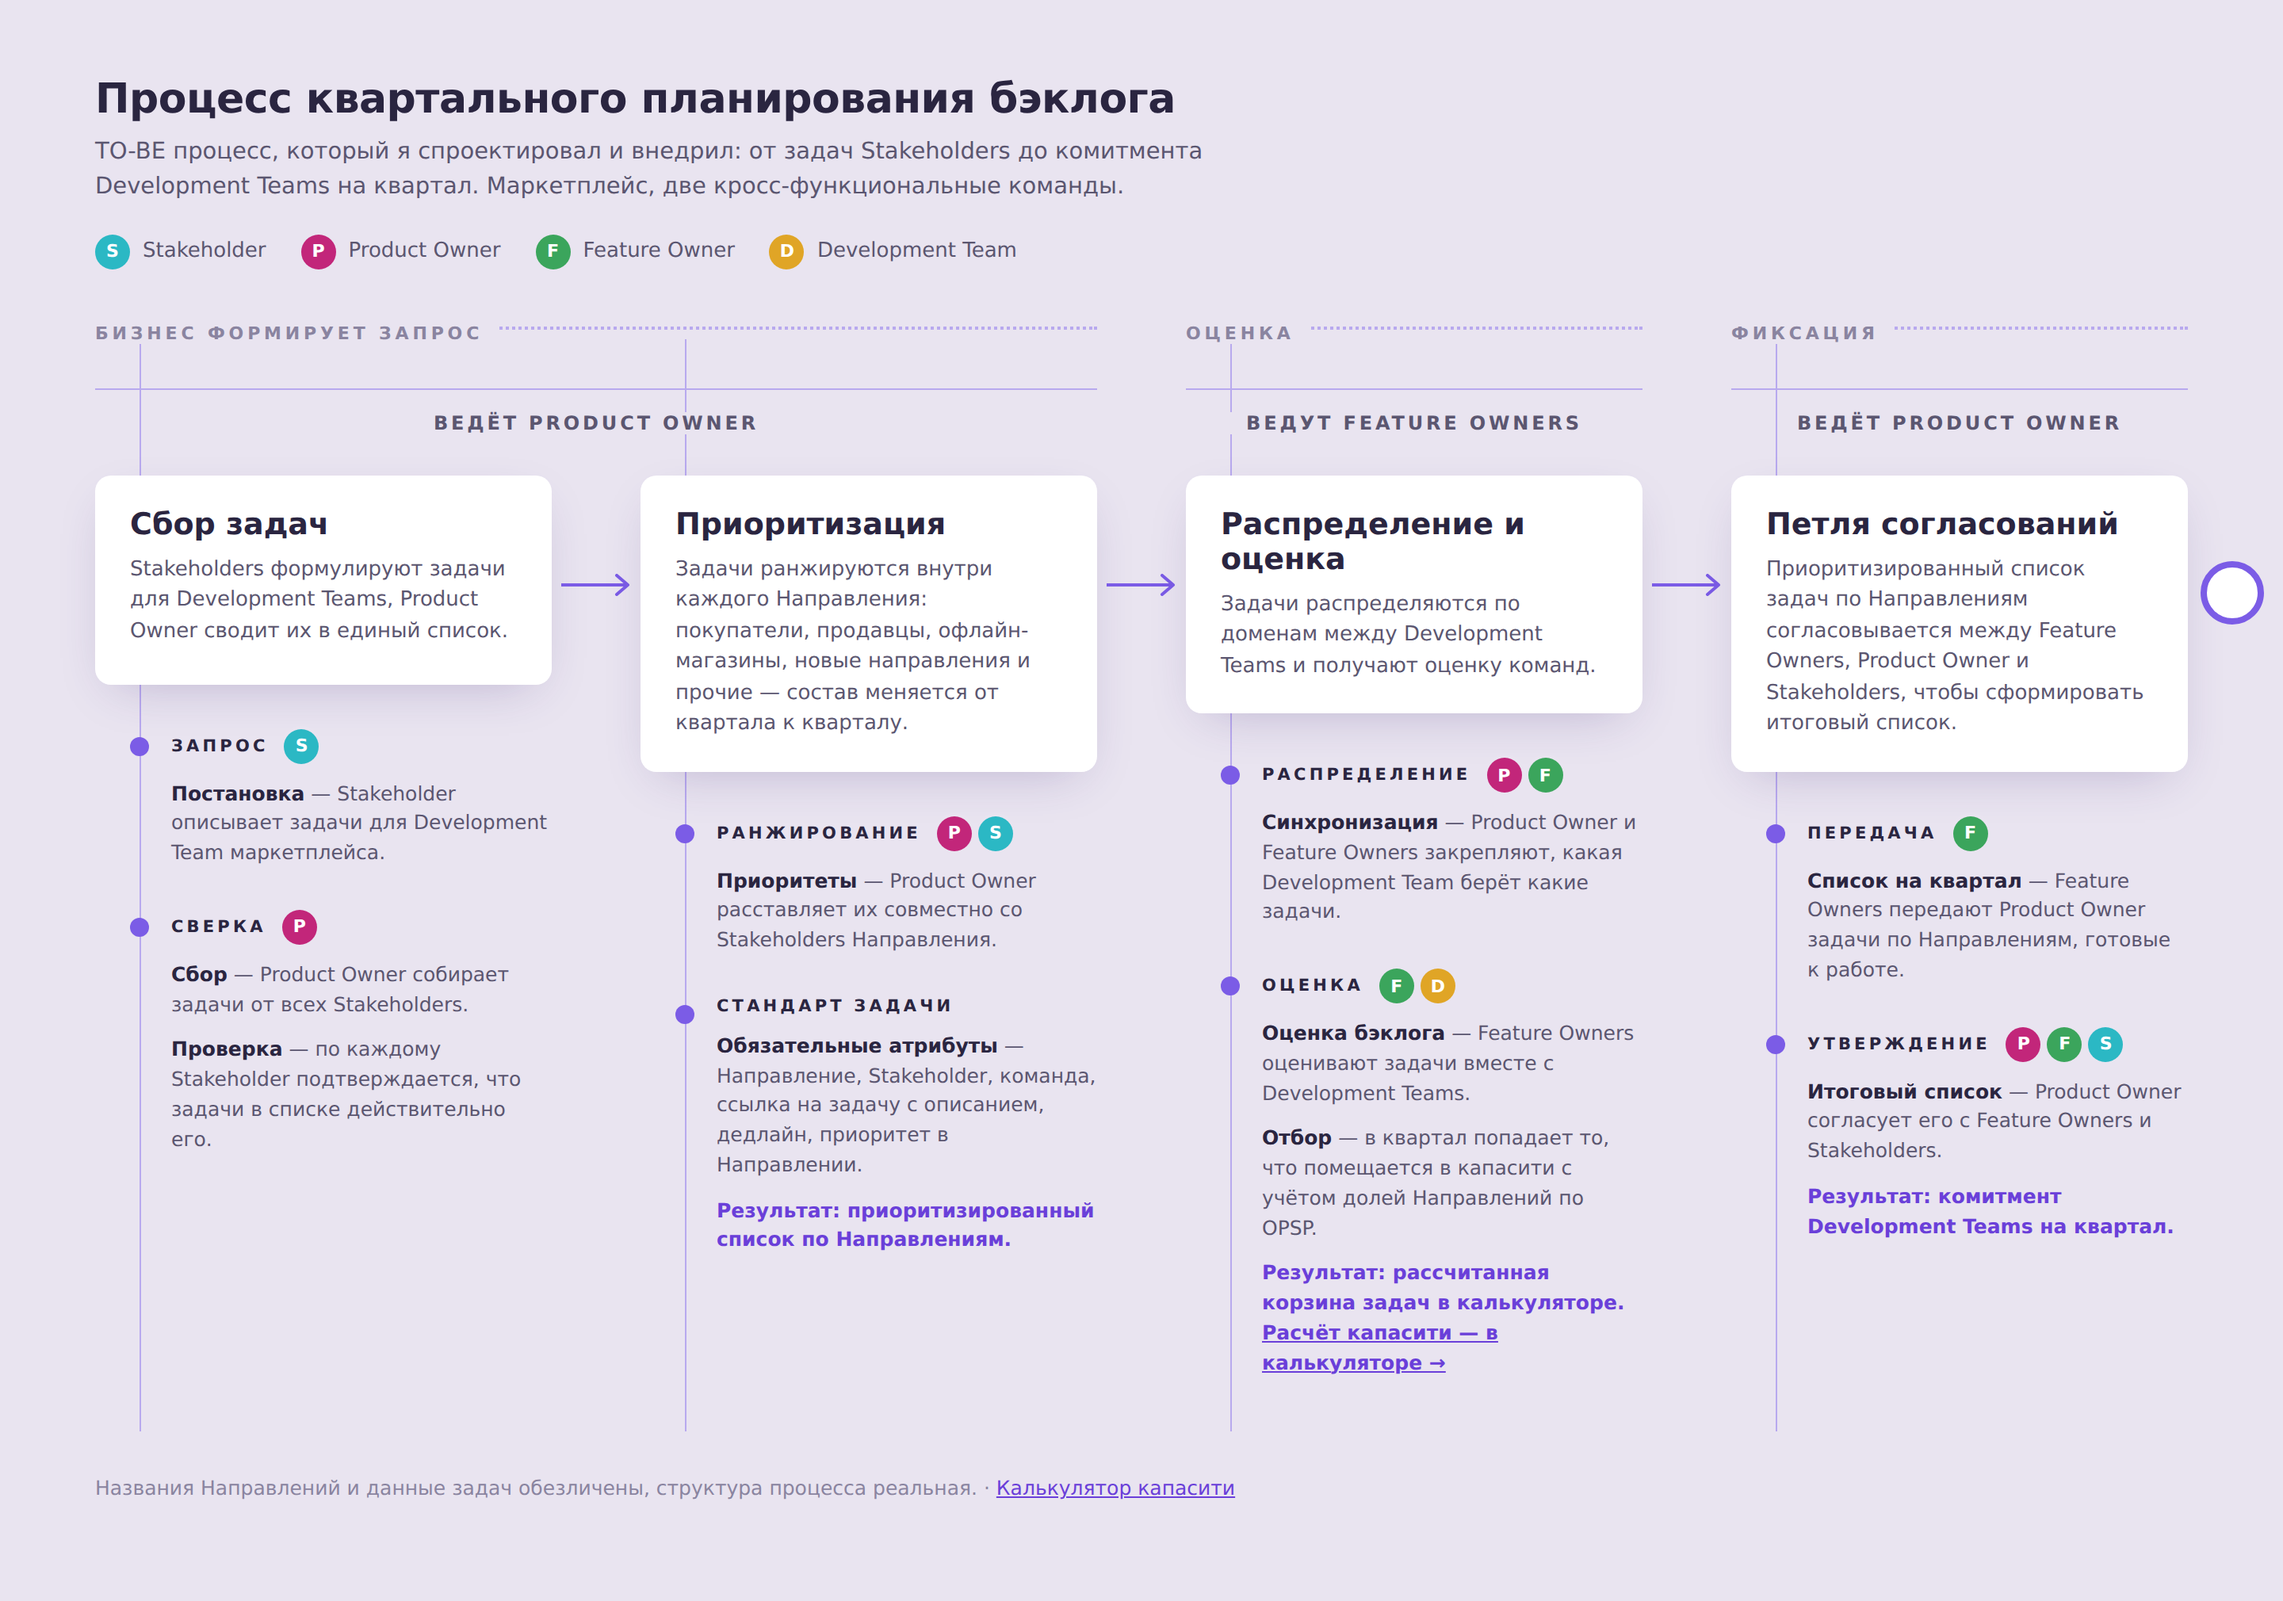
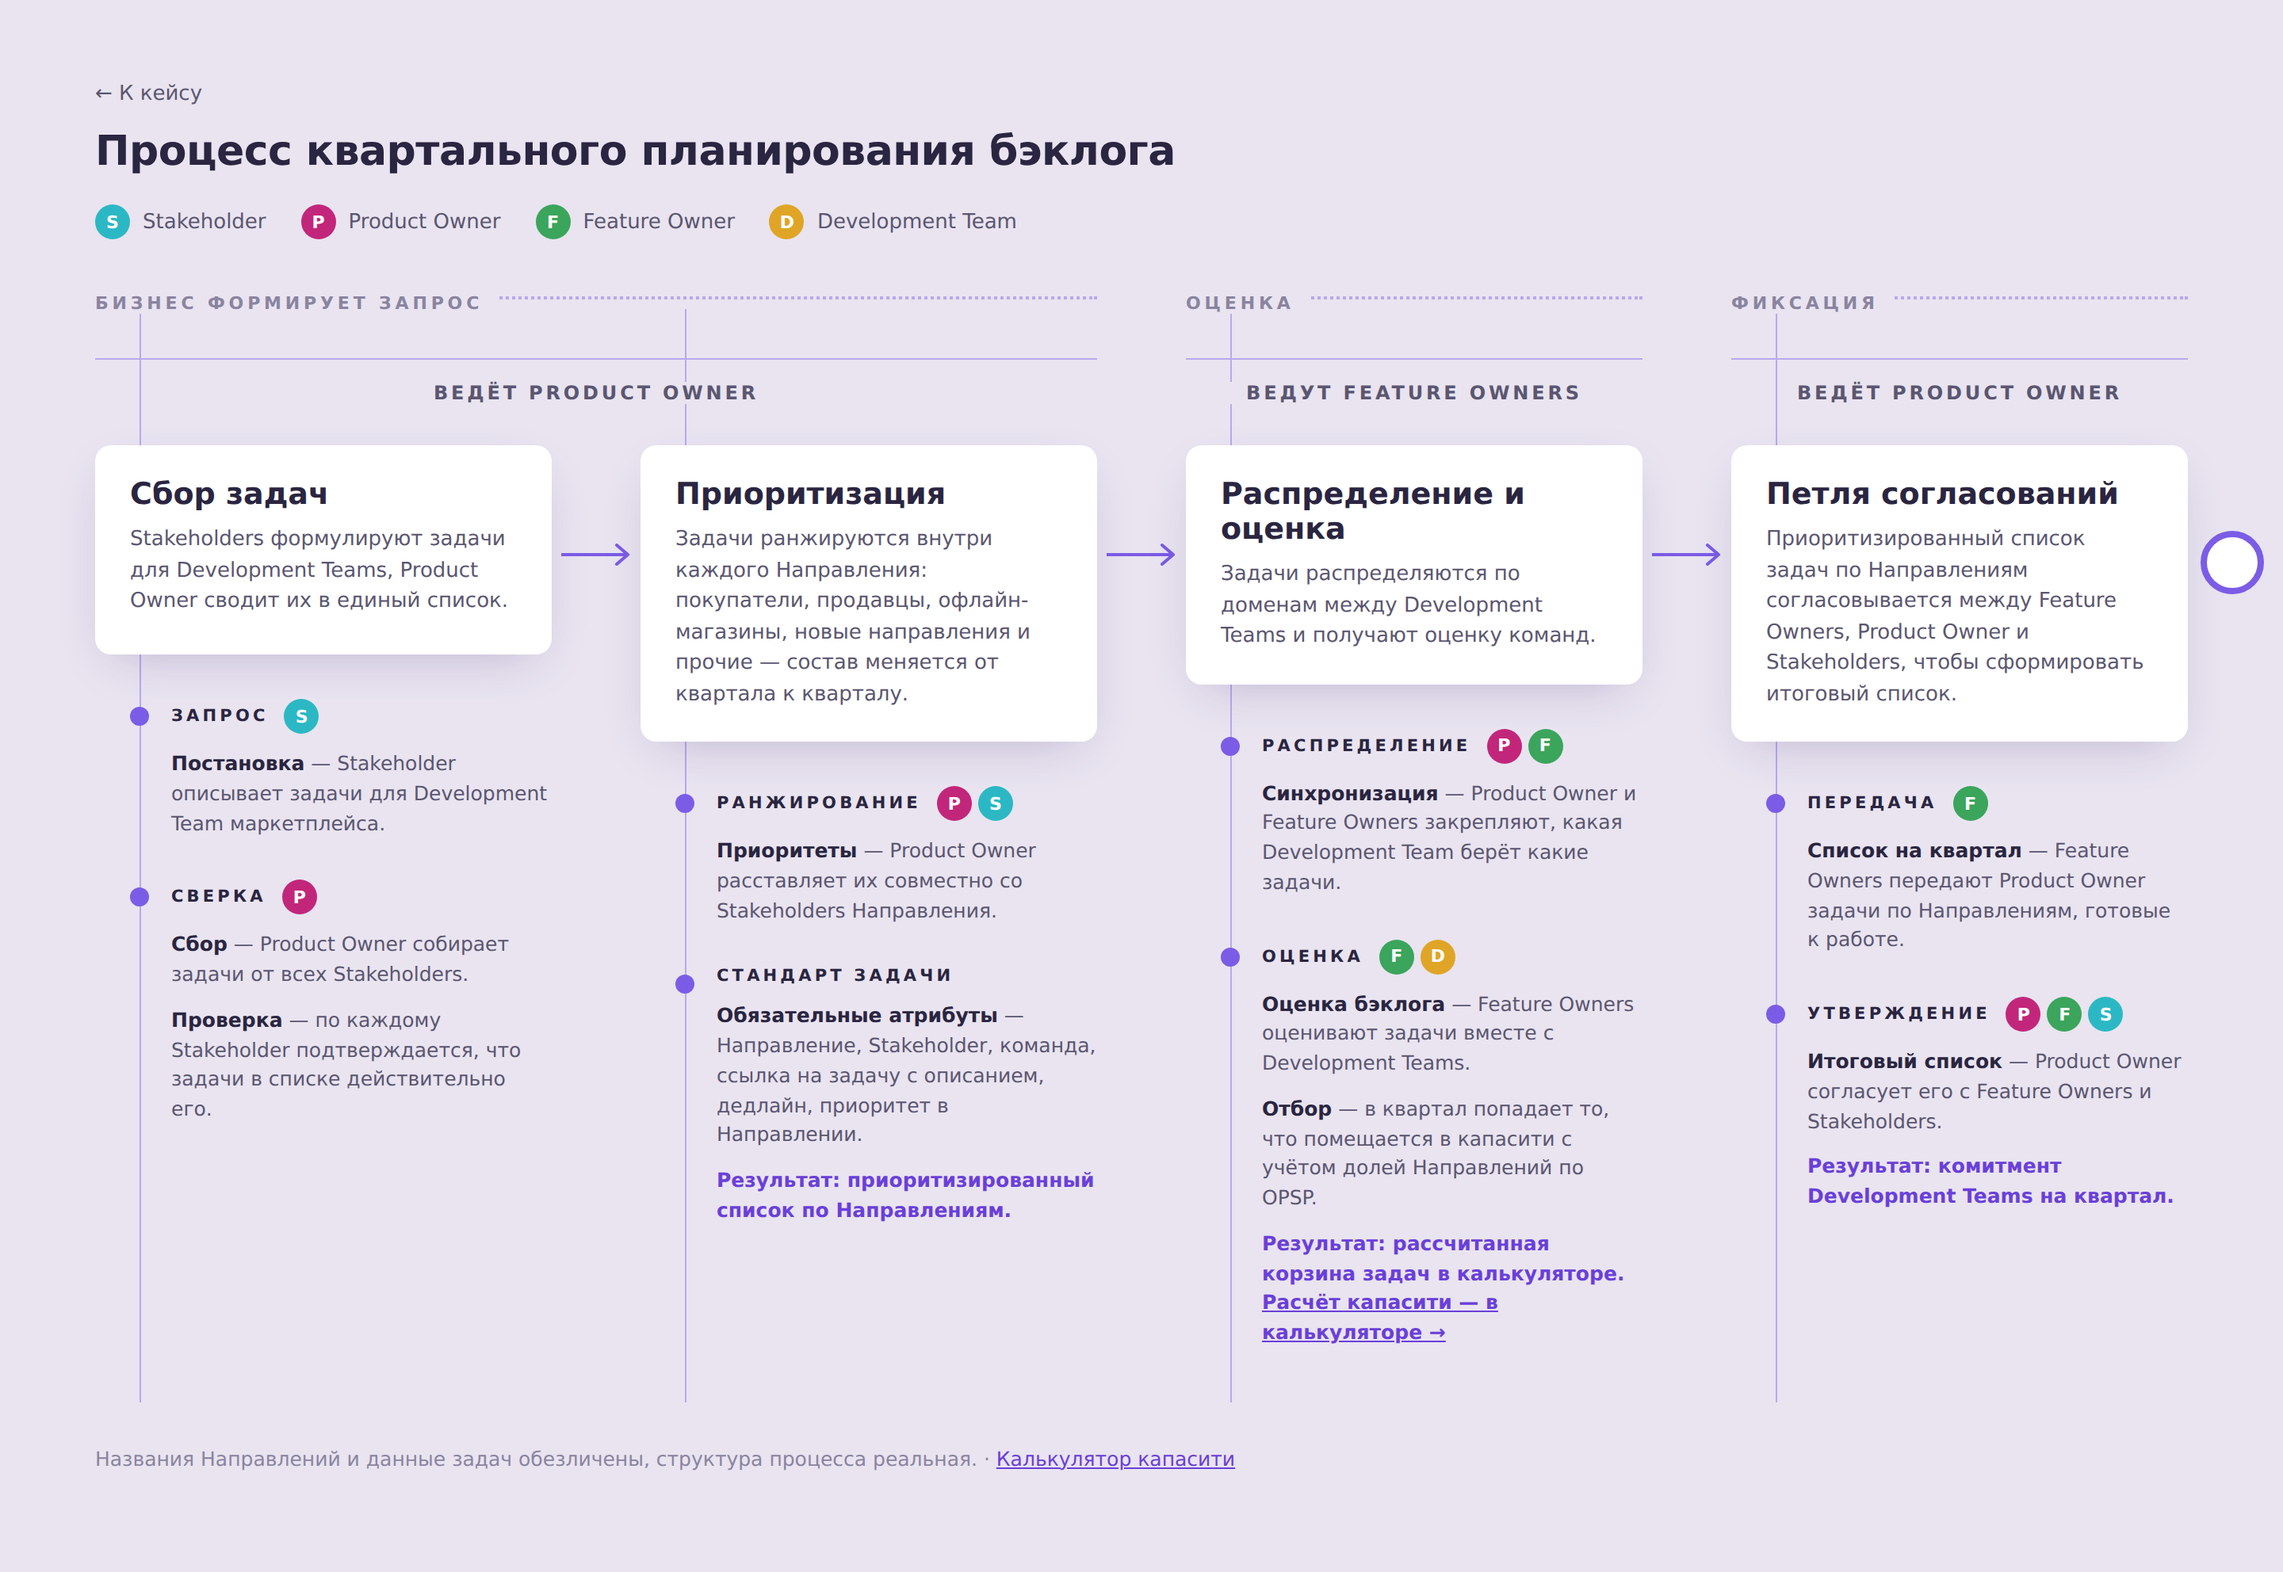
Design: neutral palette with petrol accent; refresh process thumbnail
Claude-Session: https://claude.ai/code/session_01MYVTHQjapw7uCk6ng1ARK5

diff --git a/assets/style.css b/assets/style.css
@@ -1,7 +1,7 @@
 :root{
-    --bg:#E9E4F0; --card:#FFFFFF; --ink:#2A2540; --muted:#5B5670; --soft:#8A84A0;
-    --accent:#6A3FD9; --accent-soft:#EFEAFB; --line:#D6CEEA; --on-accent:#fff;
-    --shadow:var(--shadow); --shadow-sm:var(--shadow-sm); --frame:#E9E4F0;
+    --bg:#F5F5F7; --card:#FFFFFF; --ink:#17161F; --muted:#55535F; --soft:#8C8A97;
+    --accent:#0F6E73; --accent-soft:#E3F0F0; --line:#DFDEE5; --on-accent:#fff;
+    --shadow:rgba(23,22,31,.13); --shadow-sm:rgba(23,22,31,.11); --frame:#E9E4F0;
     --user:#2BB8C4; --sys:#E0556B; --view:#3B82C4; --sel:#9A6BC9;
   }
   *{box-sizing:border-box;margin:0;padding:0}
